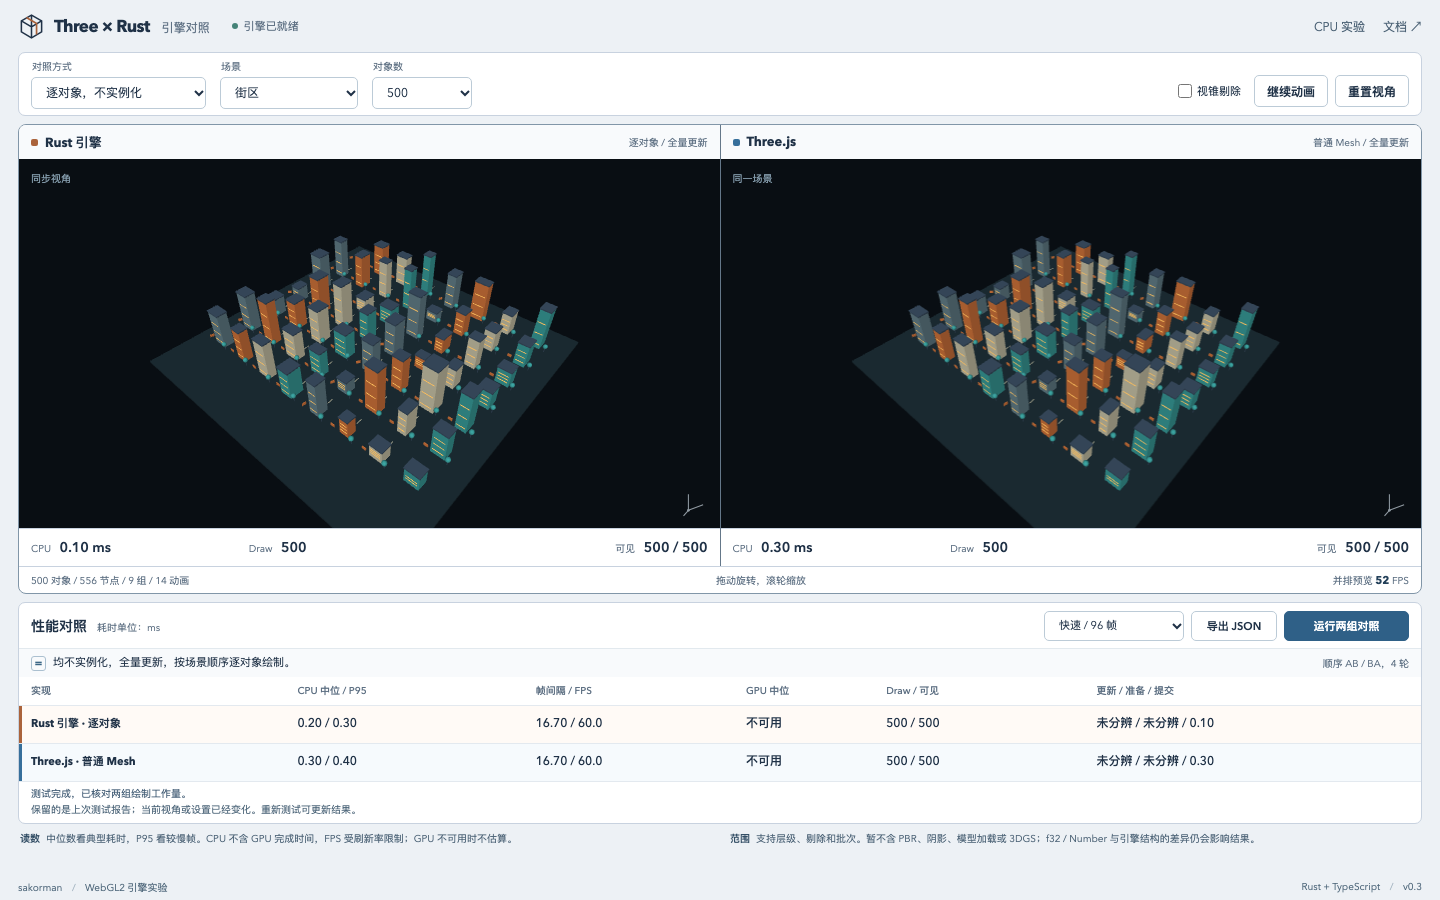
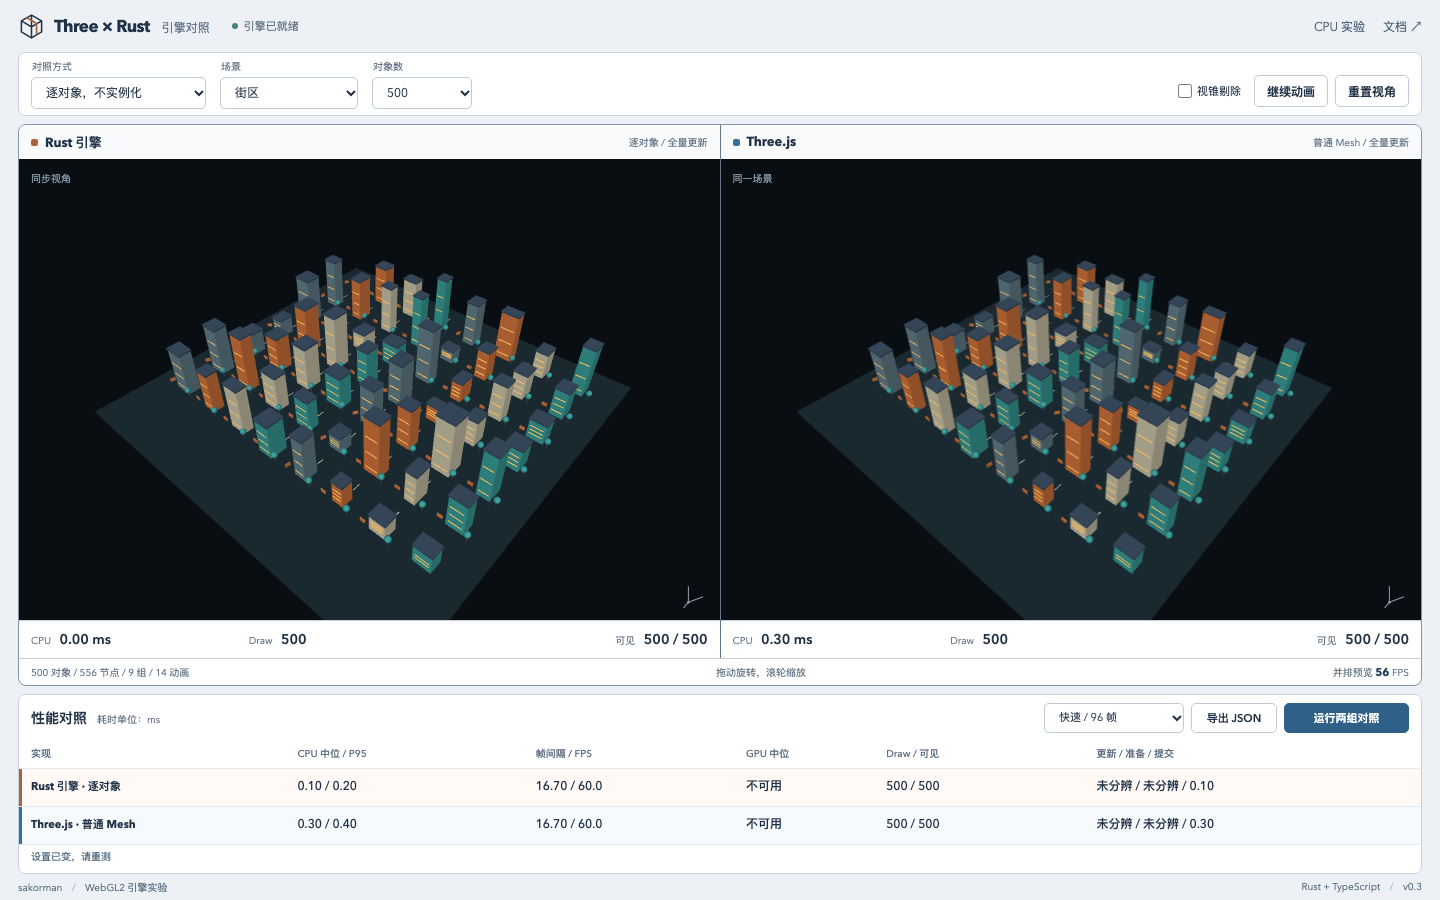
ui: remove explanatory copy

Changed region(s): [[0.0, 0.2489, 1.0, 0.9644], [0.5, 0.7467, 0.7188, 0.9333], [0.375, 0.7467, 0.4375, 0.9333]]

diff --git a/web/engine.css b/web/engine.css
@@ -140,7 +140,7 @@ nav {
 }
 .main-layout {
   display: grid;
-  grid-template-rows: 64px minmax(180px, 1fr) 222px 42px;
+  grid-template-rows: 64px minmax(180px, 1fr) 180px;
   gap: 8px;
   min-height: 0;
 }
@@ -338,7 +338,7 @@ nav {
 }
 .benchmark-panel {
   display: grid;
-  grid-template-rows: 45px 29px 104px 1fr;
+  grid-template-rows: 45px 104px 1fr;
   border: 1px solid var(--line);
   border-radius: 7px;
   background: var(--paper);
@@ -406,38 +406,6 @@ h2 {
   color: #884a2b;
   border-color: #d1b39d;
   background: #fff6f0;
-}
-.policy-line {
-  display: flex;
-  align-items: center;
-  gap: 7px;
-  min-width: 0;
-  border-top: 1px solid #e2e9ee;
-  padding: 0 12px;
-  background: #f8fafc;
-}
-.policy-marker {
-  width: 15px;
-  height: 15px;
-  line-height: 13px;
-  font-size: 12px;
-  font-weight: 700;
-  text-align: center;
-  border: 1px solid #abc0d0;
-  border-radius: 3px;
-  color: #3a6685;
-  flex: none;
-}
-#policy {
-  margin: 0;
-  font-size: 11px;
-  line-height: 1.35;
-}
-.order-note {
-  margin-left: auto;
-  font-size: 10px;
-  white-space: nowrap;
-  color: var(--muted);
 }
 .table-wrap {
   min-width: 0;
@@ -507,13 +475,6 @@ tr[data-backend='three'] {
   font-size: 12px !important;
   font-weight: 400 !important;
 }
-.empty-symbol {
-  display: inline-block;
-  color: #8aa5ba;
-  font-size: 22px;
-  vertical-align: middle;
-  margin-right: 10px;
-}
 .report-status {
   min-height: 0;
   padding: 5px 12px;
@@ -524,28 +485,6 @@ tr[data-backend='three'] {
 }
 #bench-progress {
   color: #466078;
-}
-#report-context {
-  color: #526a7d;
-  margin: 2px 0 0;
-}
-.reading-notes {
-  display: grid;
-  grid-template-columns: 1fr 1fr;
-  gap: 20px;
-  align-items: start;
-  padding: 0 2px;
-  color: #52687b;
-}
-.reading-notes p {
-  margin: 0;
-  font-size: 10px;
-  line-height: 1.55;
-}
-.reading-notes strong {
-  color: #344f66;
-  font-weight: 600;
-  margin-right: 6px;
 }
 footer {
   display: flex;
@@ -615,7 +554,7 @@ body.testing .scene-panel {
     font-size: 11px;
   }
   .main-layout {
-    grid-template-rows: 91px minmax(195px, 1fr) 280px 49px;
+    grid-template-rows: 91px minmax(195px, 1fr) 240px;
     gap: 7px;
   }
   .controls-panel {
@@ -704,7 +643,7 @@ body.testing .scene-panel {
     bottom: 8px;
   }
   .benchmark-panel {
-    grid-template-rows: 66px 28px 138px 1fr;
+    grid-template-rows: 66px 138px 1fr;
   }
   .benchmark-heading {
     display: grid;
@@ -734,15 +673,6 @@ body.testing .scene-panel {
   }
   .bench-actions button {
     height: 28px;
-  }
-  .policy-line {
-    padding: 0 10px;
-  }
-  #policy {
-    font-size: 10px;
-  }
-  .order-note {
-    display: none;
   }
   table {
     display: block;
@@ -816,13 +746,6 @@ body.testing .scene-panel {
     padding: 4px 10px;
     font-size: 9px;
   }
-  .reading-notes {
-    gap: 10px;
-  }
-  .reading-notes p {
-    font-size: 9px;
-    line-height: 1.5;
-  }
 }
 @media (max-width: 450px) {
   .workbench {
@@ -831,7 +754,7 @@ body.testing .scene-panel {
     grid-template-rows: 46px minmax(0, 1fr) 23px;
   }
   .main-layout {
-    grid-template-rows: 91px minmax(174px, 1fr) 283px 61px;
+    grid-template-rows: 91px minmax(174px, 1fr) 242px;
     gap: 6px;
   }
   .app-header {
@@ -891,7 +814,7 @@ body.testing .scene-panel {
     max-width: 65px;
   }
   .benchmark-panel {
-    grid-template-rows: 66px 30px 140px 1fr;
+    grid-template-rows: 66px 140px 1fr;
   }
   .benchmark-heading {
     padding-left: 8px;
@@ -908,12 +831,6 @@ body.testing .scene-panel {
   .bench-actions select {
     font-size: 10px;
   }
-  #policy {
-    font-size: 9px;
-  }
-  .policy-line {
-    padding: 0 8px;
-  }
   tr {
     padding: 6px 8px;
     gap: 6px 5px;
@@ -927,14 +844,6 @@ body.testing .scene-panel {
   td:first-child {
     font-size: 10px;
   }
-  .reading-notes {
-    grid-template-columns: 1fr;
-    gap: 4px;
-  }
-  .reading-notes p {
-    font-size: 9px;
-    line-height: 1.4;
-  }
   footer {
     font-size: 9px;
   }
@@ -947,11 +856,11 @@ body.testing .scene-panel {
     grid-template-rows: 44px minmax(0, 1fr) 22px;
   }
   .main-layout {
-    grid-template-rows: 60px minmax(180px, 1fr) 215px 38px;
+    grid-template-rows: 60px minmax(180px, 1fr) 172px;
     gap: 6px;
   }
   .benchmark-panel {
-    grid-template-rows: 40px 27px 104px 1fr;
+    grid-template-rows: 40px 104px 1fr;
   }
 }
 @media (prefers-reduced-motion: reduce) {

diff --git a/web/engine-main.ts b/web/engine-main.ts
@@ -20,7 +20,6 @@ const ui = {
   comparison: element('comparison', HTMLSelectElement),
   rustLabel: element('rust-label', HTMLSpanElement),
   referenceLabel: element('reference-label', HTMLSpanElement),
-  policy: element('policy', HTMLParagraphElement),
   culling: element('culling', HTMLInputElement),
   pause: element('pause', HTMLButtonElement),
   reset: element('reset', HTMLButtonElement),
@@ -35,7 +34,6 @@ const ui = {
   fps: element('fps', HTMLElement),
   progress: element('bench-progress', HTMLDivElement),
   results: element('results', HTMLTableSectionElement),
-  context: element('report-context', HTMLElement),
 };
 const canvases: Record<'rust' | 'three' | 'instanced', HTMLCanvasElement> = {
   rust: element('rust-canvas', HTMLCanvasElement),
@@ -93,9 +91,6 @@ function showReference() {
   const direct = comparison() === 'direct';
   ui.rustLabel.textContent = direct ? '逐对象 / 全量更新' : '实例化 / 脏更新';
   ui.referenceLabel.textContent = direct ? '普通 Mesh / 全量更新' : 'InstancedMesh / 脏更新';
-  ui.policy.textContent = direct
-    ? '均不实例化，全量更新，按场景顺序逐对象绘制。'
-    : '均使用实例化与脏更新，按相同几何、材质分组绘制。';
 }
 function resize() {
   const width = Math.floor(Math.min(leftView.clientWidth, rightView.clientWidth)),
@@ -112,8 +107,7 @@ function resize() {
   }
 }
 function invalidate() {
-  if (report)
-    ui.context.textContent = '保留的是上次测试报告；当前视角或设置已经变化。重新测试可更新结果。';
+  if (report) ui.progress.textContent = '设置已变，请重测';
 }
 function resetCamera() {
   camera.reset(data.extent);
@@ -222,16 +216,13 @@ function showReport(value: ComparisonReport) {
       return tr;
     }),
   );
-  ui.context.textContent = `${value.comparison === 'direct' ? '不实例化 / 全量更新' : '实例化 / 脏更新'}；${value.objects.toLocaleString()} 对象，${value.width} × ${value.height} px，剔除${value.culling ? '开' : '关'}，动画${value.animation ? '开' : '关'}；4 轮，每组 ${value.protocol.sampleFrames * value.protocol.rounds} 帧。`;
   ui.download.hidden = false;
 }
 ui.benchmark.addEventListener('click', async () => {
   if (!backends || bench) return;
   bench = new AbortController();
   report = undefined;
-  ui.results.innerHTML =
-    '<tr><td colspan="6" class="empty">正在采样，完成后显示两组结果。</td></tr>';
-  ui.context.textContent = '';
+  ui.results.innerHTML = '<tr><td colspan="6" class="empty">测试中…</td></tr>';
   lock(true);
   ui.cancel.hidden = false;
   ui.benchmark.hidden = true;
@@ -255,17 +246,15 @@ ui.benchmark.addEventListener('click', async () => {
         comparison: comparison(),
       },
       (mode, round, done, total) => {
-        ui.progress.textContent = `采样 ${round + 1}/4 轮，${backendNames[mode]}，${done}/${total} 帧（含预热）`;
+        ui.progress.textContent = `${mode.startsWith('rust') ? 'Rust' : 'Three.js'}　${round + 1}/4 轮　${done}/${total} 帧`;
       },
     );
     showReport(report);
-    ui.progress.textContent = '测试完成，已核对两组绘制工作量。';
+    ui.progress.textContent = '测试完成';
   } catch (error) {
     ui.progress.textContent = errorText(error);
     report = undefined;
-    ui.results.innerHTML =
-      '<tr><td colspan="6" class="empty">本次采样未完成，请重新运行。</td></tr>';
-    ui.context.textContent = '本次未生成有效报告。';
+    ui.results.innerHTML = '<tr><td colspan="6" class="empty">未完成</td></tr>';
   } finally {
     bench = undefined;
     ui.cancel.hidden = true;

diff --git a/index.html b/index.html
@@ -137,11 +137,6 @@
               </div>
             </div>
           </div>
-          <div class="policy-line">
-            <span class="policy-marker" aria-hidden="true">=</span>
-            <p id="policy">均不实例化，全量更新，按场景顺序逐对象绘制。</p>
-            <span class="order-note">顺序 AB / BA，4 轮</span>
-          </div>
           <div class="table-wrap">
             <table aria-label="性能测试结果">
               <thead>
@@ -157,8 +152,7 @@
               <tbody id="results">
                 <tr>
                   <td colspan="6" class="empty">
-                    <span class="empty-symbol" aria-hidden="true">↔</span
-                    ><span>场景已同步，运行测试查看两组结果。</span>
+                    待测试
                   </td>
                 </tr>
               </tbody>
@@ -166,20 +160,9 @@
           </div>
           <div class="report-status">
             <div id="bench-progress" role="status" aria-live="polite">等待测试</div>
-            <p id="report-context">测试时逐组运行；画布尺寸与动画保持一致。</p>
           </div>
         </section>
 
-        <aside class="reading-notes" aria-label="测量说明">
-          <p>
-            <strong>读数</strong>中位数看典型耗时，P95 看较慢帧。CPU 不含 GPU 完成时间，FPS
-            受刷新率限制；GPU 不可用时不估算。
-          </p>
-          <p>
-            <strong>范围</strong>支持层级、剔除和批次。暂不含 PBR、阴影、模型加载或 3DGS；f32 /
-            Number 与引擎结构的差异仍会影响结果。
-          </p>
-        </aside>
       </main>
       <footer>
         <span>sakorman <span class="footer-divider">/</span> WebGL2 引擎实验</span

diff --git a/tests/browser/engine.spec.ts b/tests/browser/engine.spec.ts
@@ -213,7 +213,7 @@ test('instanced comparison remains available as a separate paired benchmark', as
   await expect(page.locator('#results tr')).toHaveCount(2);
   await expect(page.locator('#results')).toContainText('Rust 引擎 · 实例化');
   await expect(page.locator('#results')).toContainText('Three.js · 实例化');
-  await expect(page.locator('#report-context')).toContainText('实例化 / 脏更新');
+  await expect(page.locator('#rust-label')).toHaveText('实例化 / 脏更新');
   await comparePixels(page, 'instanced-canvas');
 });
 
@@ -257,7 +257,6 @@ test('workbench keeps controls, canvases and completed results in one viewport',
         '.controls-panel',
         '.scene-panel',
         '.benchmark-panel',
-        '.reading-notes',
         'footer',
         '#download',
         '#benchmark',

diff --git a/README.md b/README.md
@@ -13,7 +13,7 @@
 
 ![引擎与 Three.js 场景对照](docs/demo.png)
 
-首页采用一屏工作台布局：参数在顶部，双画布居中，完整结果紧接在下方。窄窗口会把结果排成两列，保留全部指标；测试前后画布尺寸不变。已检查 532×863 的应用内窗口及常见桌面尺寸，极小高度或高倍缩放时允许滚动以保证可读性。
+首页采用一屏工作台布局：参数在顶部，双画布居中，完整结果紧接在下方。窄窗口会把结果排成两列，保留全部指标；测试前后画布尺寸不变。测试说明集中在本文，页面只保留操作、数据和简短状态。已检查 532×863 的应用内窗口及常见桌面尺寸，极小高度或高倍缩放时允许滚动以保证可读性。
 
 ## 现在有哪些东西
 

diff --git a/docs/ui-design.md b/docs/ui-design.md
@@ -1,5 +1,7 @@
 # 界面设计记录
 
+2026-10-12：按使用反馈移除测试口径、报告上下文与底部说明，释放高度给画布。保留简短采样、完成、取消和设置变化提示，详细说明放在 README。
+
 目标是一个可操作的图形测试工作台：在当前 532 × 863 窗口，以及常见桌面尺寸内，同时看到设置、双画布、实时状态和完整结果。
 
 ## 设计方案

diff --git a/CHANGELOG.md b/CHANGELOG.md
@@ -1,5 +1,10 @@
 # 更新记录
 
+## 2026-10-12 · 精简界面
+
+- 删除测试口径、报告上下文和底部介绍段落。
+- 状态提示缩短，释放空间给画布，保留全部结果指标。
+
 ## 2026-10-11 · 工作台界面
 
 - 首页改成一屏工作台，集中放置参数、双画布和测试结果。
